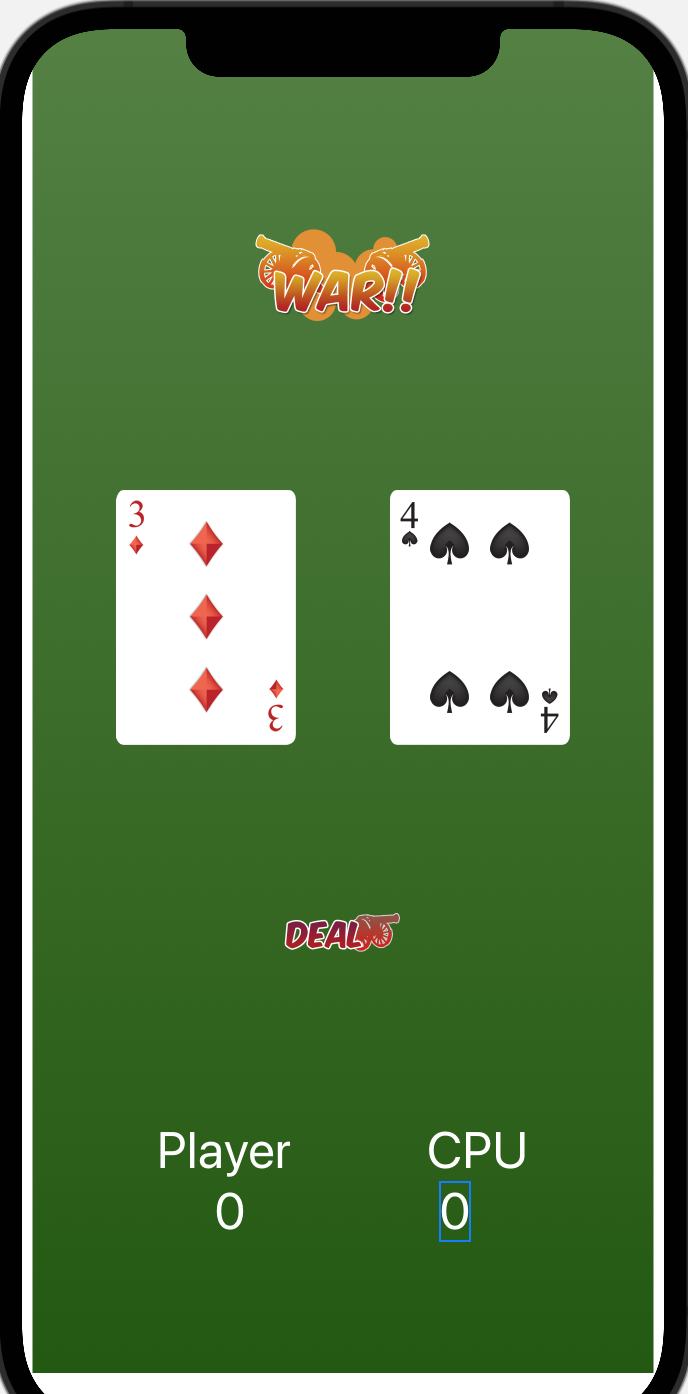
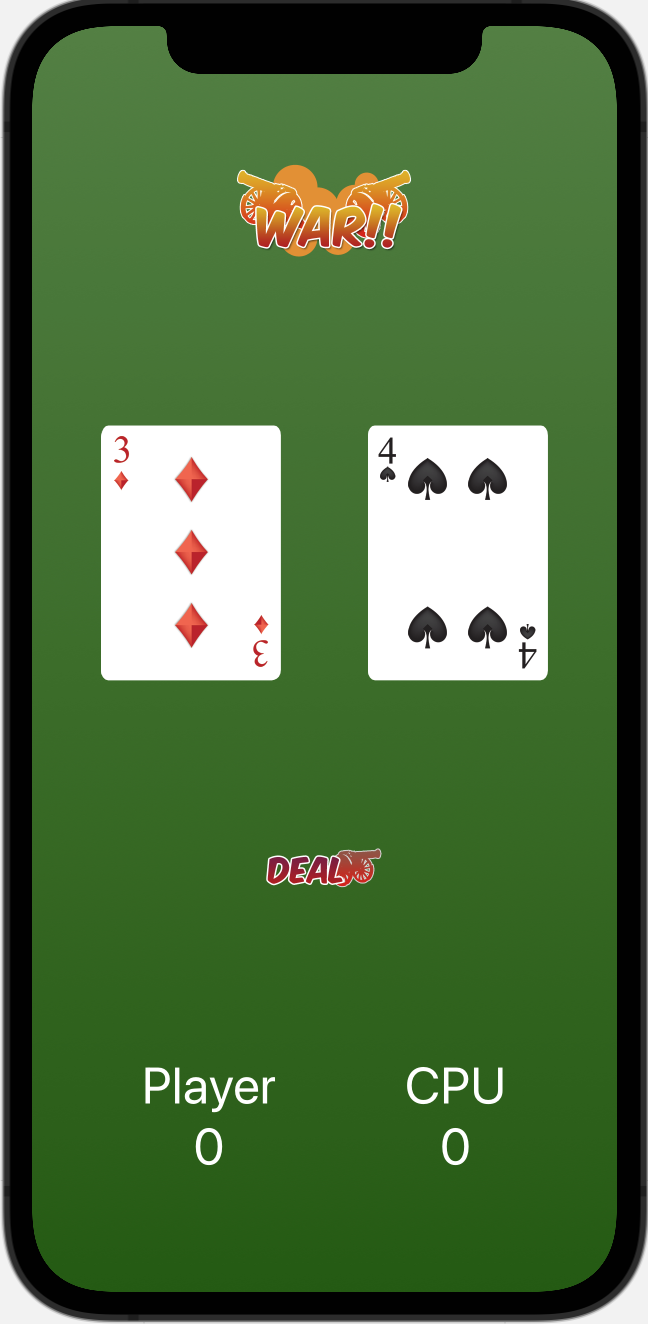
docs

diff --git a/war-card-game/ContentView.swift b/war-card-game/ContentView.swift
@@ -27,24 +27,23 @@ struct ContentView: View {
                 Spacer()
                 HStack {
                     Spacer()
+                    VStack {
                     Text("Player")
                         .font(.largeTitle)
                         .foregroundColor(Color.white)
+                        Text("0")
+                            .font(.largeTitle)
+                            .foregroundColor(Color.white)
+                    }
                     Spacer()
-                    Text("CPU")
-                        .font(.largeTitle)
-                        .foregroundColor(Color.white)
-                    Spacer()
-                }
-                HStack {
-                    Spacer()
-                    Text("0")
-                        .font(.largeTitle)
-                        .foregroundColor(Color.white)
-                    Spacer()
-                    Text("0")
-                        .font(.largeTitle)
-                        .foregroundColor(Color.white)
+                    VStack {
+                        Text("CPU")
+                            .font(.largeTitle)
+                            .foregroundColor(Color.white)
+                        Text("0")
+                            .font(.largeTitle)
+                            .foregroundColor(Color.white)
+                    }
                     Spacer()
                 }
                 Spacer()
